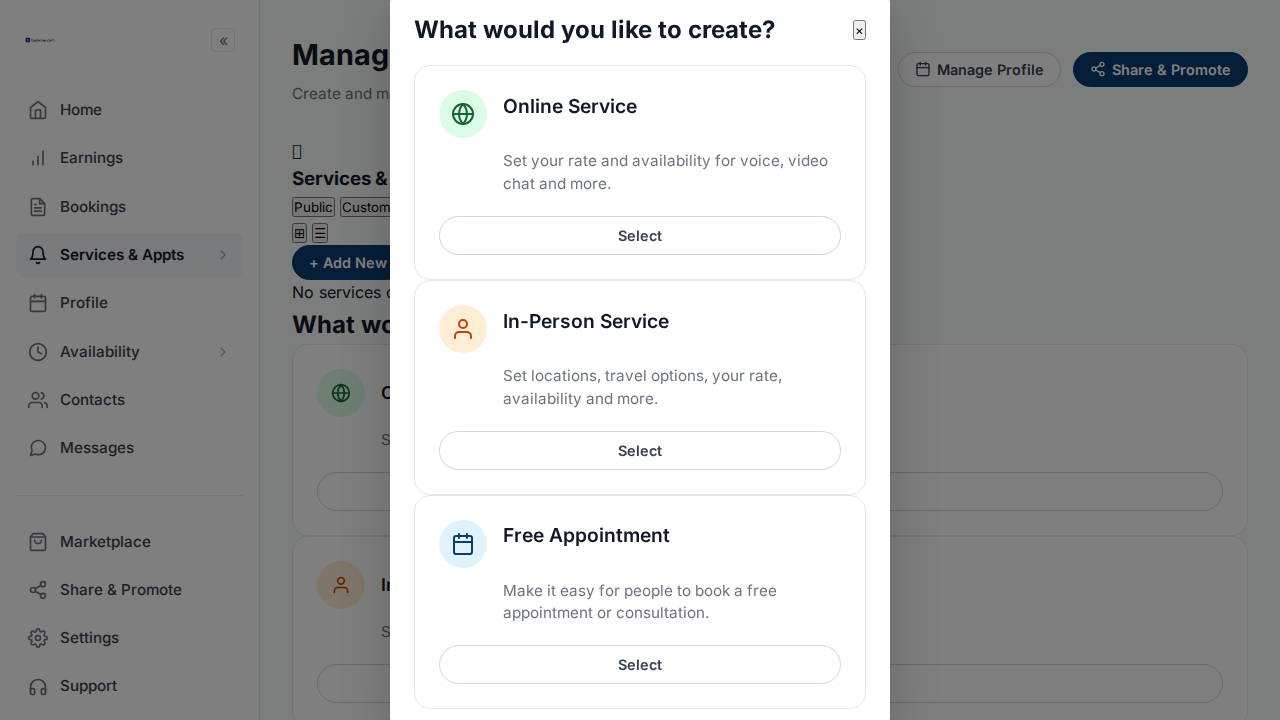
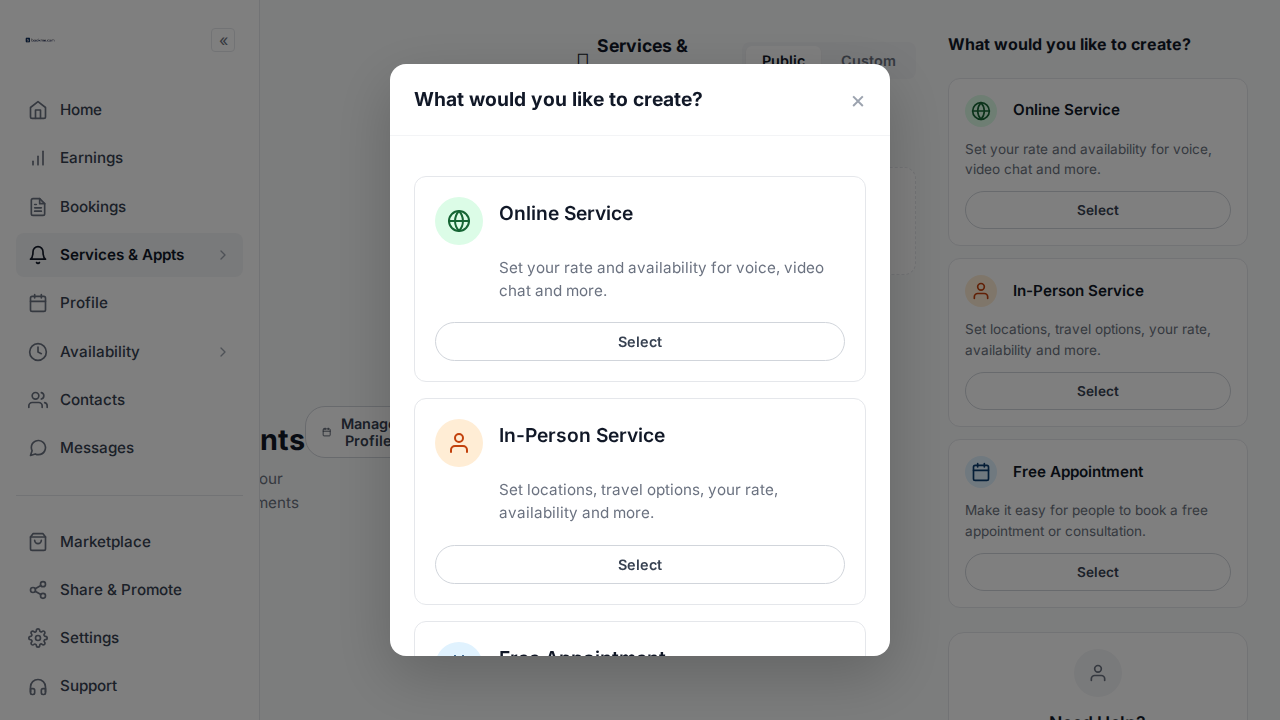
Fix Services Page Layout and Implement Full Service Creation Flow
- Updated `Project 2/css/style.css` to include missing layout classes for `services.html` (e.g., `.services-layout-grid`, `.services-main-column`), fixing the broken visual display.
- Refactored `Project 2/services.html` to a 2-column layout with a dynamic service list and a "Create New" sidebar.
- Implemented the "Add New" button modal functionality in `js/script.js` and `services.html`.
- Updated `js/script.js` to persist created services to `allServices` in `localStorage`, enabling the dynamic rendering of the services list.
- Implemented the Service Creation Wizard (Steps 1-7) with validation, duration selection, custom methods, and notification preferences.
- Added `service_finish.html` to display a summary of the created service.
- Verified the end-to-end flow using Playwright, confirming successful navigation, data persistence, and layout rendering.

diff --git a/Project 2/css/style.css b/Project 2/css/style.css
@@ -4964,3 +4964,368 @@ textarea:focus {
   font-weight: 700;
   color: #111827;
 }
+
+/* =======================
+   SERVICES & APPTS PAGE (UPDATED LAYOUT)
+======================= */
+
+.services-layout-grid {
+  display: flex;
+  gap: 32px;
+  max-width: 1200px;
+  margin: 0 auto;
+}
+
+.full-width-header {
+  width: 100%;
+  margin-bottom: 24px;
+}
+
+/* Left Column: Services List */
+.services-main-column {
+  flex: 1; /* Takes remaining space */
+  display: flex;
+  flex-direction: column;
+}
+
+.services-list-header {
+  display: flex;
+  justify-content: space-between;
+  align-items: center;
+  margin-bottom: 24px;
+  flex-wrap: wrap;
+  gap: 16px;
+}
+
+.services-header-left {
+  display: flex;
+  align-items: center;
+  gap: 24px;
+}
+
+.header-icon-title {
+  display: flex;
+  align-items: center;
+  gap: 8px;
+}
+
+.header-icon-title h3 {
+  font-size: 1.1rem;
+  font-weight: 700;
+  color: #111827;
+  margin: 0;
+}
+
+.bell-icon {
+  font-size: 1.2rem;
+}
+
+.toggle-pill-container {
+  background: #f3f4f6;
+  padding: 4px;
+  border-radius: 8px;
+  display: flex;
+  gap: 4px;
+}
+
+.toggle-pill-btn {
+  padding: 6px 16px;
+  border-radius: 6px;
+  border: none;
+  background: transparent;
+  color: #6b7280;
+  font-weight: 600;
+  cursor: pointer;
+  transition: all 0.2s;
+  font-size: 0.9rem;
+}
+
+.toggle-pill-btn.active {
+  background: white;
+  color: #111827;
+  box-shadow: 0 1px 2px rgba(0,0,0,0.05);
+}
+
+.services-header-right {
+  display: flex;
+  align-items: center;
+  gap: 16px;
+}
+
+.view-toggles {
+  display: flex;
+  background: white;
+  border: 1px solid #e5e7eb;
+  border-radius: 8px;
+  overflow: hidden;
+}
+
+.view-btn {
+  background: white;
+  border: none;
+  padding: 8px 12px;
+  cursor: pointer;
+  color: #6b7280;
+  border-right: 1px solid #e5e7eb;
+  font-size: 1.1rem;
+}
+
+.view-btn:last-child {
+  border-right: none;
+}
+
+.view-btn.active {
+  background: #f9fafb;
+  color: #111827;
+}
+
+.my-services-grid {
+  display: grid;
+  grid-template-columns: repeat(auto-fill, minmax(280px, 1fr));
+  gap: 24px;
+}
+
+.empty-state-box {
+  grid-column: 1 / -1;
+  background: white;
+  border: 1px dashed #e5e7eb;
+  border-radius: 12px;
+  padding: 40px;
+  text-align: center;
+  color: #9ca3af;
+}
+
+/* Service Card Item */
+.service-card-item {
+  background: white;
+  border: 1px solid #e5e7eb;
+  border-radius: 12px;
+  overflow: hidden;
+  transition: all 0.2s;
+  position: relative;
+}
+
+.service-card-item:hover {
+  box-shadow: 0 10px 30px rgba(0,0,0,0.08);
+  border-color: #d1d5db;
+  transform: translateY(-2px);
+}
+
+.card-image-area {
+  height: 160px;
+  position: relative;
+  border-bottom: 1px solid #f3f4f6;
+}
+
+.card-price-badge {
+  position: absolute;
+  top: 12px;
+  left: 12px;
+  background: #111827;
+  color: white;
+  padding: 4px 10px;
+  border-radius: 20px;
+  font-size: 0.8rem;
+  font-weight: 600;
+}
+
+.card-menu-btn {
+  position: absolute;
+  top: 12px;
+  right: 12px;
+  width: 28px;
+  height: 28px;
+  background: white;
+  border-radius: 50%;
+  border: none;
+  display: flex;
+  align-items: center;
+  justify-content: center;
+  cursor: pointer;
+  font-weight: 700;
+  color: #374151;
+  box-shadow: 0 2px 4px rgba(0,0,0,0.1);
+  padding-bottom: 8px; /* Alignment hack for "..." */
+}
+
+.card-menu-btn:hover {
+  background: #f9fafb;
+}
+
+.card-menu-dropdown {
+  position: absolute;
+  top: 44px;
+  right: 12px;
+  background: white;
+  border-radius: 8px;
+  box-shadow: 0 10px 30px rgba(0,0,0,0.15);
+  border: 1px solid #e5e7eb;
+  z-index: 10;
+  width: 180px;
+  overflow: hidden;
+}
+
+.card-menu-dropdown ul {
+  list-style: none;
+  padding: 4px 0;
+}
+
+.card-menu-dropdown li {
+  padding: 8px 16px;
+  font-size: 0.9rem;
+  color: #374151;
+  cursor: pointer;
+  display: flex;
+  align-items: center;
+  gap: 8px;
+}
+
+.card-menu-dropdown li:hover {
+  background: #f3f4f6;
+  color: #111827;
+}
+
+.card-menu-dropdown li.delete-opt {
+  color: #ef4444;
+  border-top: 1px solid #f3f4f6;
+}
+
+.card-menu-dropdown li.delete-opt:hover {
+  background: #fef2f2;
+}
+
+.card-info-area {
+  padding: 16px;
+}
+
+.card-info-area h4 {
+  font-size: 1rem;
+  font-weight: 600;
+  color: #111827;
+  margin-bottom: 4px;
+}
+
+.card-info-area p {
+  font-size: 0.85rem;
+  color: #6b7280;
+}
+
+/* Right Column: Sidebar Options */
+.services-sidebar-column {
+  width: 300px; /* Fixed width */
+  flex-shrink: 0;
+  display: flex;
+  flex-direction: column;
+  gap: 24px;
+}
+
+.create-sidebar-section {
+  display: flex;
+  flex-direction: column;
+  gap: 12px;
+}
+
+.section-heading-sm {
+  font-size: 1rem;
+  font-weight: 700;
+  color: #111827;
+  margin-bottom: 8px;
+}
+
+.service-create-card.small {
+  padding: 16px;
+  border-radius: 12px;
+}
+
+.service-icon-circle.small-icon {
+  width: 32px;
+  height: 32px;
+}
+
+.service-create-card.small h3 {
+  font-size: 0.95rem;
+}
+
+.service-create-card.small p {
+  padding-left: 0;
+  font-size: 0.85rem;
+  margin-bottom: 12px;
+  margin-top: 8px;
+}
+
+.small-btn {
+  padding: 6px;
+  font-size: 0.85rem;
+}
+
+.small-widget {
+  padding: 16px;
+}
+
+.small-avatar {
+  width: 48px;
+  height: 48px;
+  background: #f3f4f6;
+  border-radius: 50%;
+  display: flex;
+  align-items: center;
+  justify-content: center;
+}
+
+/* Add New Modal */
+.create-modal-content {
+  width: 500px;
+  max-width: 90%;
+  padding: 0;
+  overflow: hidden;
+}
+
+.modal-header {
+  padding: 20px 24px;
+  border-bottom: 1px solid #f3f4f6;
+  display: flex;
+  justify-content: space-between;
+  align-items: center;
+}
+
+.modal-header h2 {
+  font-size: 1.2rem;
+  margin: 0;
+}
+
+.btn-close-modal {
+  background: none;
+  border: none;
+  font-size: 1.5rem;
+  color: #9ca3af;
+  cursor: pointer;
+  line-height: 1;
+}
+
+.create-options-list {
+  padding: 24px;
+  display: flex;
+  flex-direction: column;
+  gap: 16px;
+  max-height: 70vh;
+  overflow-y: auto;
+}
+
+.service-create-card.modal-card {
+  padding: 20px;
+  border-radius: 12px;
+}
+
+/* Responsive */
+@media (max-width: 900px) {
+  .services-layout-grid {
+    flex-direction: column;
+  }
+  .services-sidebar-column {
+    width: 100%;
+  }
+  .services-list-header {
+    flex-direction: column;
+    align-items: flex-start;
+  }
+}
